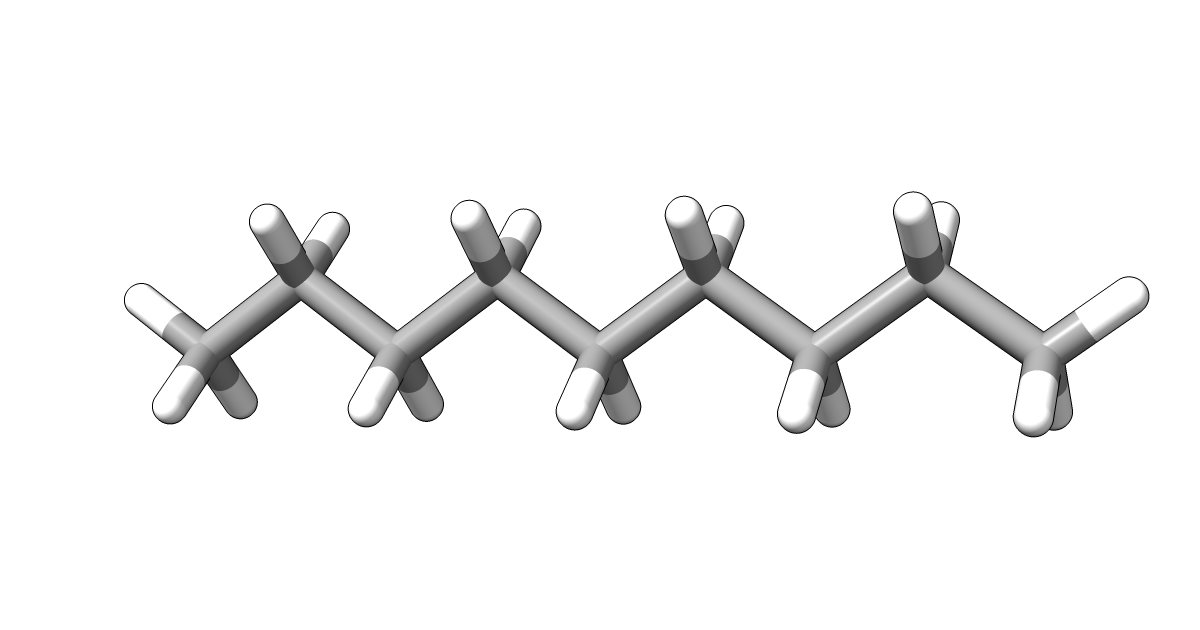
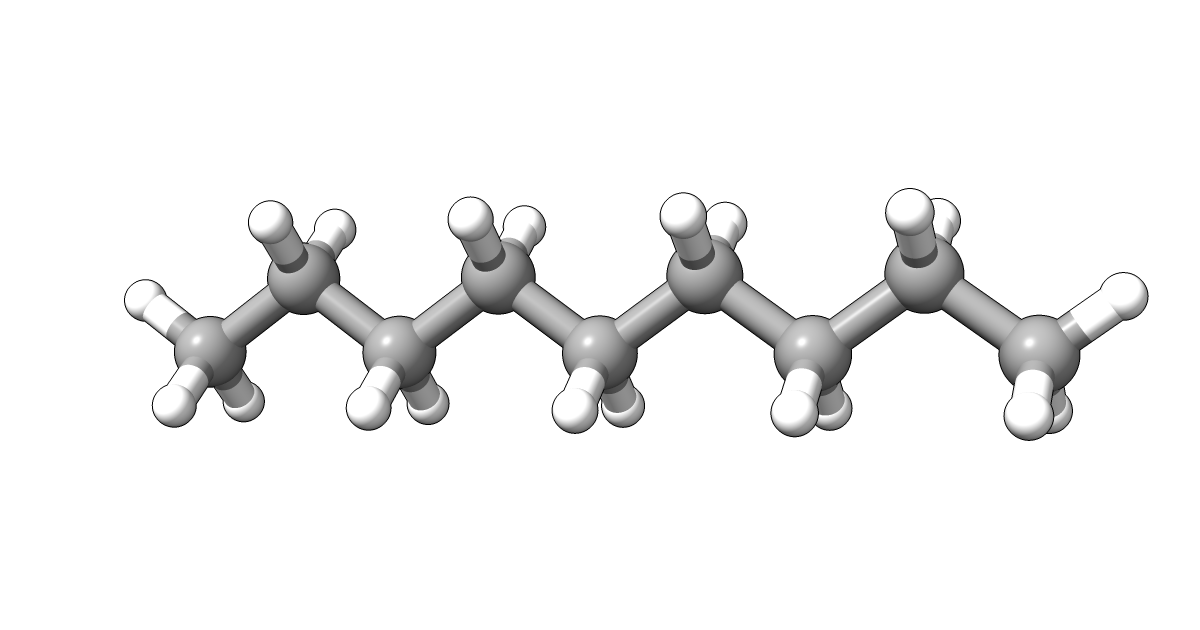
Updates in both png and index files
New png files for open global imagens and change background color for 3Dmol objects.

diff --git a/hidrocarbonetos/alcanos/isopropano/index.html b/hidrocarbonetos/alcanos/isopropano/index.html
@@ -1,0 +1,30 @@
+<!DOCTYPE html>
+<html lang="pt-br">
+<head>
+    <meta charset="UTF-8">
+    <meta name="viewport" content="width=device-width, initial-scale=1.0">
+    <script src="https://cdnjs.cloudflare.com/ajax/libs/3Dmol/1.6.3/3Dmol-min.min.js"></script>
+    <title>Isopropano - grsousajunior.github.io</title>
+    <!-- Info -->
+    <meta name="description" content="Modelo 3D da molécula do isopropano">
+    <meta name="author" content="Gustavo Sousa Jr">
+    <!-- Facebook Meta Tags -->
+    <meta property="og:url" content="https://grsousajunior.github.io/modelos/hidrocarbonetos/alcanos/isopropano">
+    <meta property="og:type" content="website">
+    <meta property="og:title" content="Isopropano - grsousajunior.github.io">
+    <meta property="og:description" content="Modelo 3D da molécula do isopropano">
+    <meta property="og:image" content="https://grsousajunior.github.io/modelos/hidrocarbonetos/alcanos/isopropano/isopropano.png">
+    <meta property="og:image:width" content="1200">
+    <meta property="og:image:height" content="630">
+    <!-- Twitter Meta Tags -->
+    <meta name="twitter:card" content="summary_large_image">
+    <meta property="twitter:domain" content="grsousajunior.github.io">
+    <meta property="twitter:url" content="https://grsousajunior.github.io/modelos/hidrocarbonetos/alcanos/isopropano">
+    <meta name="twitter:title" content="Isopropano - grsousajunior.github.io">
+    <meta name="twitter:description" content="Modelo 3D da molécula do isopropano">
+    <meta name="twitter:image" content="https://grsousajunior.github.io/modelos/hidrocarbonetos/alcanos/isopropano/isopropano.png">
+</head>
+<body style="margin: 0; padding: 0;">
+    <div class="viewer_3Dmoljs" id="gldiv" style="width: 100vw; height: 100vh; position: relative;" data-href="isopropano.sdf" data-type="sdf" data-style="stick:radius=0.2;sphere:scale=0.25" data-backgroundcolor="white"></div>
+</body>
+</html>

diff --git a/hidrocarbonetos/alcanos/heptano/index.html b/hidrocarbonetos/alcanos/heptano/index.html
@@ -25,6 +25,6 @@
     <meta name="twitter:image" content="https://grsousajunior.github.io/modelos/hidrocarbonetos/alcanos/heptano/heptano.png">
 </head>
 <body style="margin: 0; padding: 0;">
-    <div class="viewer_3Dmoljs" id="gldiv" style="width: 100vw; height: 100vh; position: relative;" data-href="heptano.sdf" data-type="sdf" data-style="stick:radius=0.2;sphere:scale=0.25"></div>
+    <div class="viewer_3Dmoljs" id="gldiv" style="width: 100vw; height: 100vh; position: relative;" data-href="heptano.sdf" data-type="sdf" data-style="stick:radius=0.2;sphere:scale=0.25" data-backgroundcolor="white"></div>
 </body>
 </html>

diff --git a/hidrocarbonetos/alcanos/pentano/index.html b/hidrocarbonetos/alcanos/pentano/index.html
@@ -25,6 +25,6 @@
     <meta name="twitter:image" content="https://grsousajunior.github.io/modelos/hidrocarbonetos/alcanos/pentano/pentano.png">
 </head>
 <body style="margin: 0; padding: 0;">
-    <div class="viewer_3Dmoljs" id="gldiv" style="width: 100vw; height: 100vh; position: relative;" data-href="pentano.sdf" data-type="sdf" data-style="stick:radius=0.2;sphere:scale=0.25"></div>
+    <div class="viewer_3Dmoljs" id="gldiv" style="width: 100vw; height: 100vh; position: relative;" data-href="pentano.sdf" data-type="sdf" data-style="stick:radius=0.2;sphere:scale=0.25" data-backgroundcolor="white"></div>
 </body>
 </html>

diff --git a/hidrocarbonetos/alcanos/propano/index.html b/hidrocarbonetos/alcanos/propano/index.html
@@ -25,6 +25,6 @@
     <meta name="twitter:image" content="https://grsousajunior.github.io/modelos/hidrocarbonetos/alcanos/propano/propano.png">
 </head>
 <body style="margin: 0; padding: 0;">
-    <div class="viewer_3Dmoljs" id="gldiv" style="width: 100vw; height: 100vh; position: relative;" data-href="propano.sdf" data-type="sdf" data-style="stick:radius=0.2;sphere:scale=0.25"></div>
+    <div class="viewer_3Dmoljs" id="gldiv" style="width: 100vw; height: 100vh; position: relative;" data-href="propano.sdf" data-type="sdf" data-style="stick:radius=0.2;sphere:scale=0.25" data-backgroundcolor="white"></div>
 </body>
 </html>

diff --git a/hidrocarbonetos/alcanos/butano/index.html b/hidrocarbonetos/alcanos/butano/index.html
@@ -25,6 +25,6 @@
     <meta name="twitter:image" content="https://grsousajunior.github.io/modelos/hidrocarbonetos/alcanos/butano/butano.png">
 </head>
 <body style="margin: 0; padding: 0;">
-    <div class="viewer_3Dmoljs" id="gldiv" style="width: 100vw; height: 100vh; position: relative;" data-href="butano.sdf" data-type="sdf" data-style="stick:radius=0.2;sphere:scale=0.25"></div>
+    <div class="viewer_3Dmoljs" id="gldiv" style="width: 100vw; height: 100vh; position: relative;" data-href="butano.sdf" data-type="sdf" data-style="stick:radius=0.2;sphere:scale=0.25" data-backgroundcolor="white"></div>
 </body>
 </html>

diff --git a/hidrocarbonetos/alcanos/decano/index.html b/hidrocarbonetos/alcanos/decano/index.html
@@ -25,6 +25,6 @@
     <meta name="twitter:image" content="https://grsousajunior.github.io/modelos/hidrocarbonetos/alcanos/decano/decano.png">
 </head>
 <body style="margin: 0; padding: 0;">
-    <div class="viewer_3Dmoljs" id="gldiv" style="width: 100vw; height: 100vh; position: relative;" data-href="decano.sdf" data-type="sdf" data-style="stick:radius=0.2;sphere:scale=0.25"></div>
+    <div class="viewer_3Dmoljs" id="gldiv" style="width: 100vw; height: 100vh; position: relative;" data-href="decano.sdf" data-type="sdf" data-style="stick:radius=0.2;sphere:scale=0.25" data-backgroundcolor="white"></div>
 </body>
 </html>

diff --git a/hidrocarbonetos/alcanos/hexano/index.html b/hidrocarbonetos/alcanos/hexano/index.html
@@ -25,6 +25,6 @@
     <meta name="twitter:image" content="https://grsousajunior.github.io/modelos/hidrocarbonetos/alcanos/hexano/hexano.png">
 </head>
 <body style="margin: 0; padding: 0;">
-    <div class="viewer_3Dmoljs" id="gldiv" style="width: 100vw; height: 100vh; position: relative;" data-href="hexano.sdf" data-type="sdf" data-style="stick:radius=0.2;sphere:scale=0.25"></div>
+    <div class="viewer_3Dmoljs" id="gldiv" style="width: 100vw; height: 100vh; position: relative;" data-href="hexano.sdf" data-type="sdf" data-style="stick:radius=0.2;sphere:scale=0.25" data-backgroundcolor="white"></div>
 </body>
 </html>

diff --git a/hidrocarbonetos/alcanos/metano/index.html b/hidrocarbonetos/alcanos/metano/index.html
@@ -25,6 +25,6 @@
     <meta name="twitter:image" content="https://grsousajunior.github.io/modelos/hidrocarbonetos/alcanos/metano/metano.png">
 </head>
 <body style="margin: 0; padding: 0;">
-    <div class="viewer_3Dmoljs" id="gldiv" style="width: 100vw; height: 100vh; position: relative;" data-href="metano.sdf" data-type="sdf" data-style="stick:radius=0.2;sphere:scale=0.25"></div>
+    <div class="viewer_3Dmoljs" id="gldiv" style="width: 100vw; height: 100vh; position: relative;" data-href="metano.sdf" data-type="sdf" data-style="stick:radius=0.2;sphere:scale=0.25" data-backgroundcolor="white"></div>
 </body>
 </html>

diff --git a/hidrocarbonetos/alcanos/nonano/index.html b/hidrocarbonetos/alcanos/nonano/index.html
@@ -25,6 +25,6 @@
     <meta name="twitter:image" content="https://grsousajunior.github.io/modelos/hidrocarbonetos/alcanos/nonano/nonano.png">
 </head>
 <body style="margin: 0; padding: 0;">
-    <div class="viewer_3Dmoljs" id="gldiv" style="width: 100vw; height: 100vh; position: relative;" data-href="nonano.sdf" data-type="sdf" data-style="stick:radius=0.2;sphere:scale=0.25"></div>
+    <div class="viewer_3Dmoljs" id="gldiv" style="width: 100vw; height: 100vh; position: relative;" data-href="nonano.sdf" data-type="sdf" data-style="stick:radius=0.2;sphere:scale=0.25" data-backgroundcolor="white"></div>
 </body>
 </html>

diff --git a/hidrocarbonetos/alcanos/octano/index.html b/hidrocarbonetos/alcanos/octano/index.html
@@ -25,6 +25,6 @@
     <meta name="twitter:image" content="https://grsousajunior.github.io/modelos/hidrocarbonetos/alcanos/octano/octano.png">
 </head>
 <body style="margin: 0; padding: 0;">
-    <div class="viewer_3Dmoljs" id="gldiv" style="width: 100vw; height: 100vh; position: relative;" data-href="octano.sdf" data-type="sdf" data-style="stick:radius=0.2;sphere:scale=0.25"></div>
+    <div class="viewer_3Dmoljs" id="gldiv" style="width: 100vw; height: 100vh; position: relative;" data-href="octano.sdf" data-type="sdf" data-style="stick:radius=0.2;sphere:scale=0.25" data-backgroundcolor="white"></div>
 </body>
 </html>

diff --git a/hidrocarbonetos/alcanos/etano/index.html b/hidrocarbonetos/alcanos/etano/index.html
@@ -25,6 +25,6 @@
     <meta name="twitter:image" content="https://grsousajunior.github.io/modelos/hidrocarbonetos/alcanos/etano/etano.png">
 </head>
 <body style="margin: 0; padding: 0;">
-    <div class="viewer_3Dmoljs" id="gldiv" style="width: 100vw; height: 100vh; position: relative;" data-href="etano.sdf" data-type="sdf" data-style="stick:radius=0.2;sphere:scale=0.25"></div>
+    <div class="viewer_3Dmoljs" id="gldiv" style="width: 100vw; height: 100vh; position: relative;" data-href="etano.sdf" data-type="sdf" data-style="stick:radius=0.2;sphere:scale=0.25" data-backgroundcolor="white"></div>
 </body>
 </html>

diff --git a/README.md b/README.md
@@ -2,29 +2,41 @@
  
 Repositório para modelos moleculares usados no ensino de química.
 
-## Hidrocarbonetos
+## Modelos disponíveis
 
 ### Alcanos
-Atualmente estão disponíveis modelos em 3D dos seguintes alcanos
 
-- [Metano](https://grsousajunior.github.io/metano)
-- [Etano](https://grsousajunior.github.io/etano)
-- [Propano](https://grsousajunior.github.io/propano)
-- [Butano](https://grsousajunior.github.io/butano) 
-- [Pentano](https://grsousajunior.github.io/pentano)
-- [Hexano](https://grsousajunior.github.io/hexano) 
-- [Heptano](https://grsousajunior.github.io/heptano)
-- [Octano](https://grsousajunior.github.io/octano) 
-- [Nonano](https://grsousajunior.github.io/nonano) 
-- [Decano](https://grsousajunior.github.io/decano) 
+- [x] [Metano](https://grsousajunior.github.io/metano)
+- [x] [Etano](https://grsousajunior.github.io/etano)
+- [x] [Propano](https://grsousajunior.github.io/propano)
+- [x] [Isopropano](https://grsousajunior.github.io/isopropano)
+- [x] [Butano](https://grsousajunior.github.io/butano) 
+- [x] [Pentano](https://grsousajunior.github.io/pentano)
+- [x] [Hexano](https://grsousajunior.github.io/hexano) 
+- [x] [Heptano](https://grsousajunior.github.io/heptano)
+- [x] [Octano](https://grsousajunior.github.io/octano) 
+- [x] [Nonano](https://grsousajunior.github.io/nonano) 
+- [x] [Decano](https://grsousajunior.github.io/decano)
+
+## Lista de afazeres
+
+Preparar modelos das seguintes moléculas:
 
 ### Alcenos
-### Alcinos
-### Arenos
 
-## Cations
-  - Metílico
-  - Primário
-  - Secundário
-  - Terciário
+- [x] Eteno (etileno)
+- [ ] Propeno
+- [ ] Propeno, 2-metil-
+- [ ] But-1-eno
+- [ ] But-2-eno, (*E*)-
+- [ ] But-2-eno, (*Z*)-
+- [ ] Pent-1-eno
+- [ ] Pent-2-eno, (*E*)-
+- [ ] Pent-2-eno, (*Z*)-
+
+### Alcinos
+
+- [ ] Etino (acetileno)
+- [ ] 
+
 
